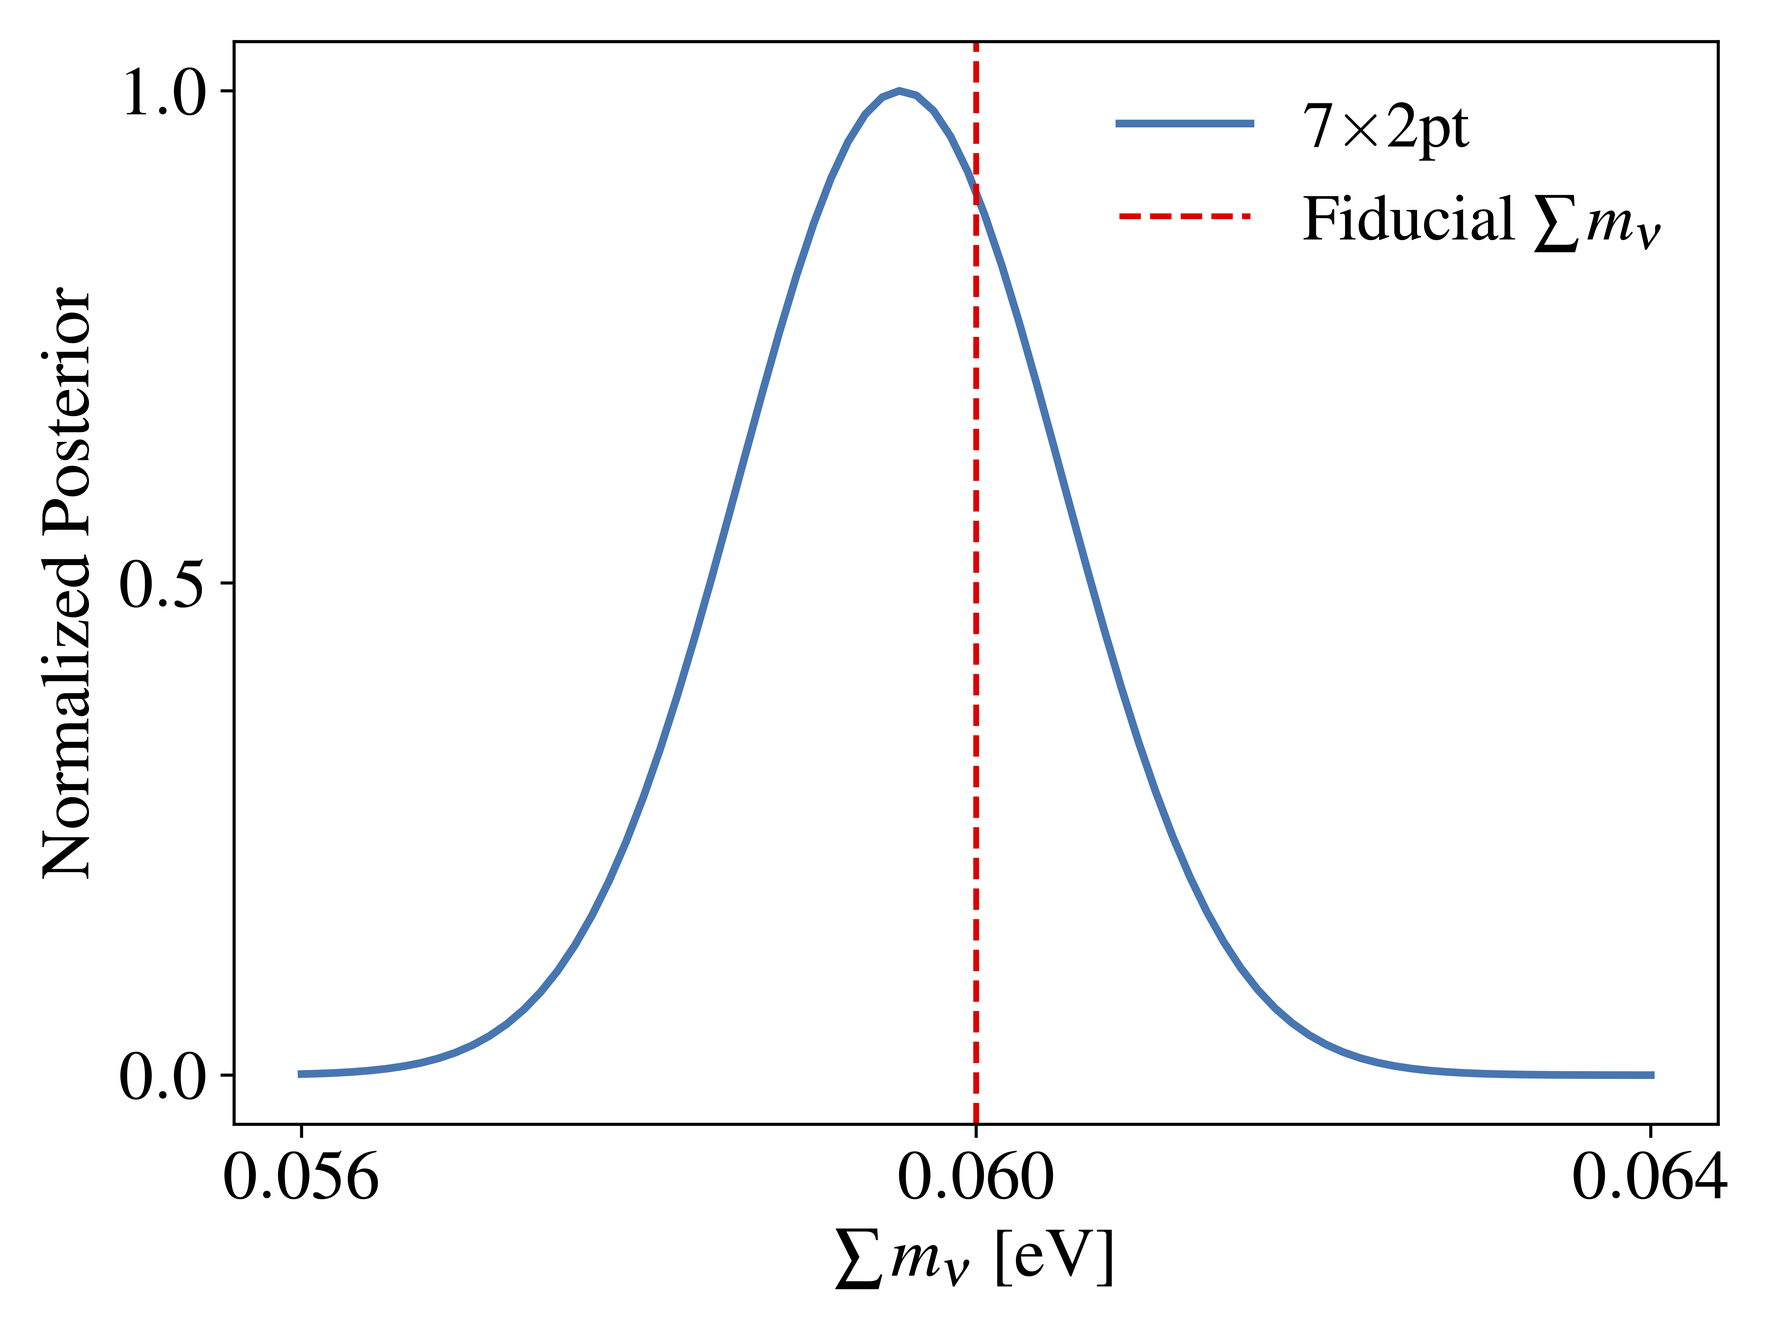
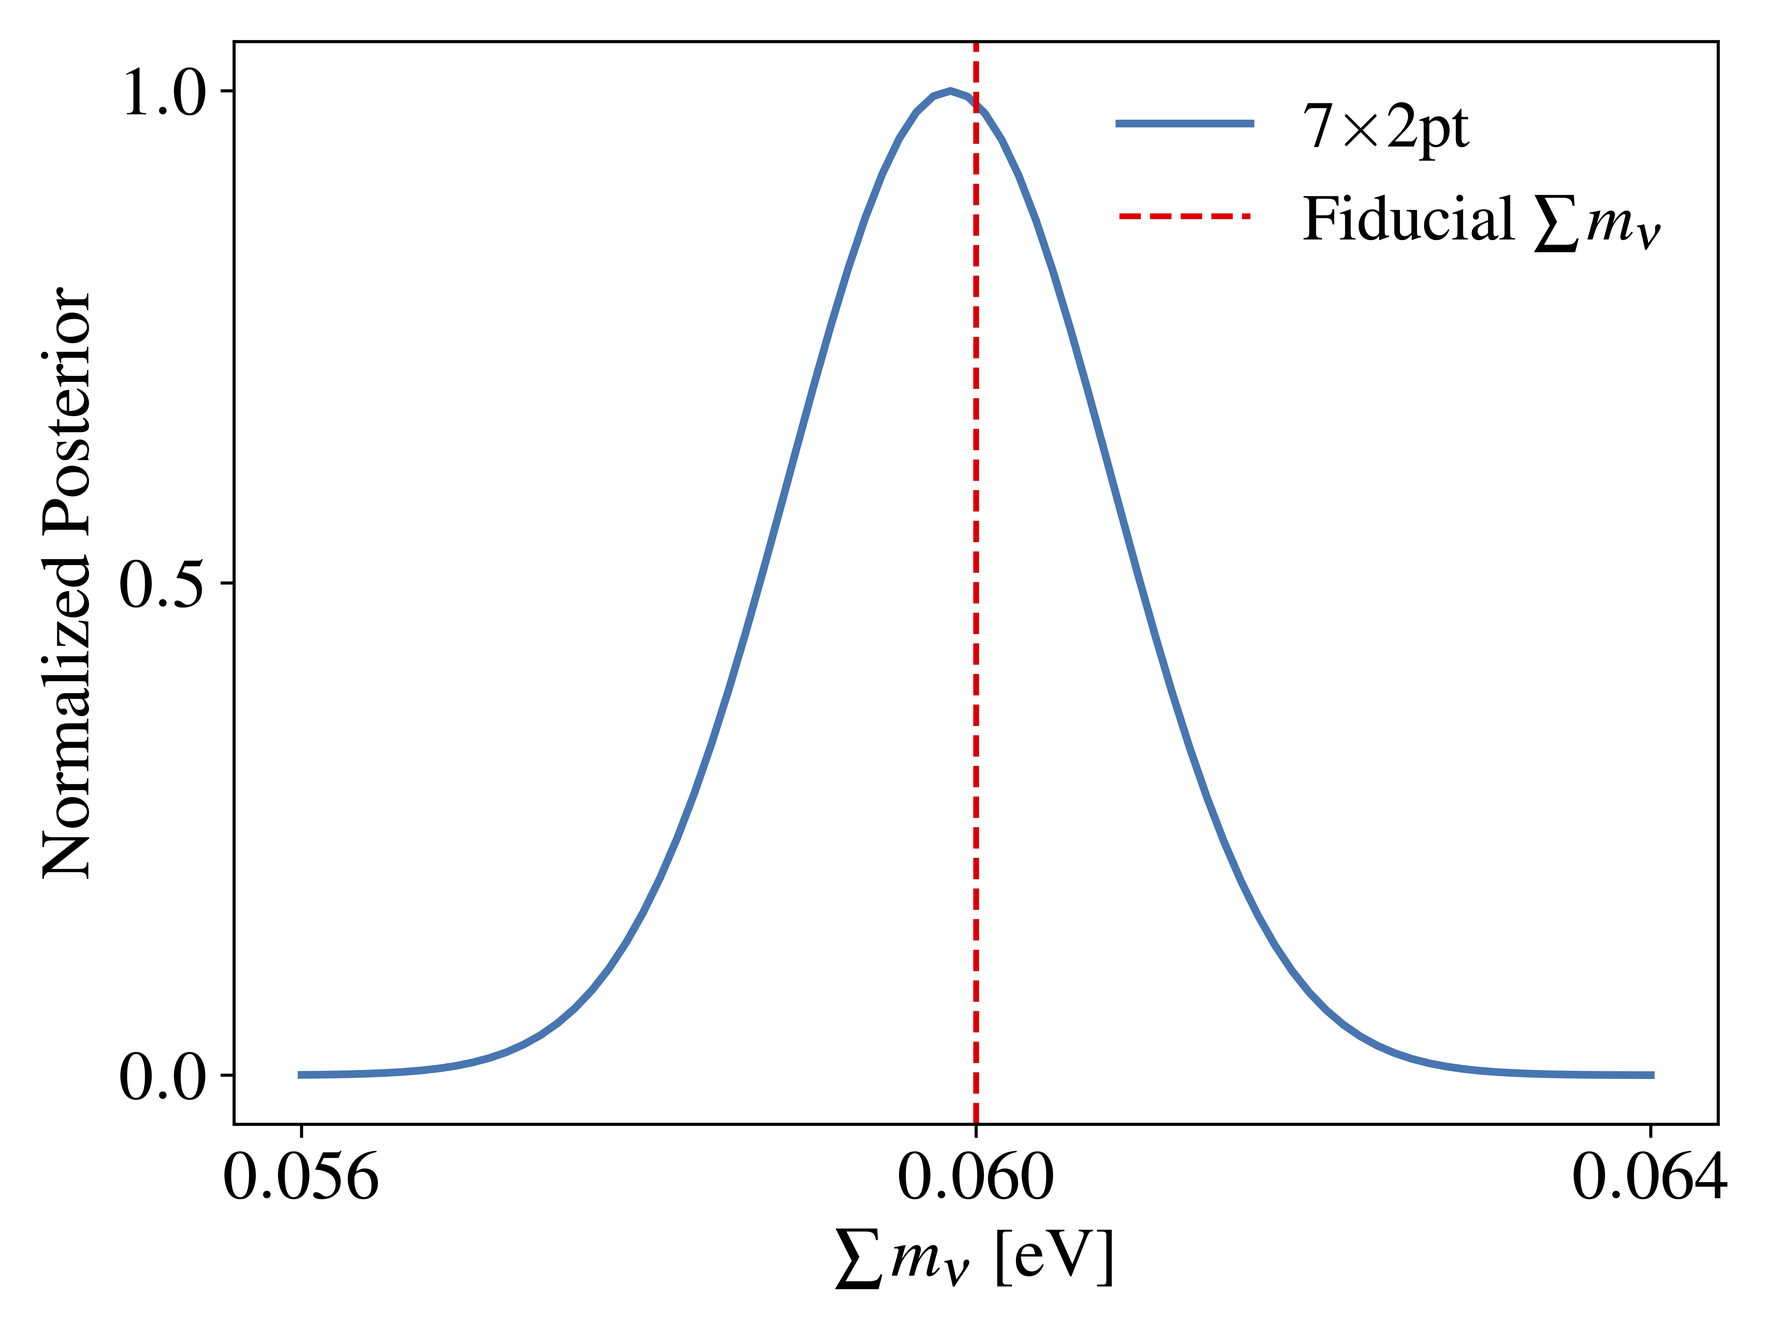
final cleanup

Changed region(s): [[0.1875, 0.0625, 0.8438, 0.8125]]

diff --git a/cloe/cosmo/cosmology.py b/cloe/cosmo/cosmology.py
@@ -1559,8 +1559,8 @@ class Cosmology:
             growth = self.cosmo_dic['D_z_k_func'](redshift, k_scale)
 
         if (isinstance(redshift, (list, np.ndarray)) and
-                isinstance(wavenumber, (list, np.ndarray))):
-            redshift = np.repeat(redshift[:, np.newaxis], len(wavenumber), 1)
+                isinstance(k_scale, (list, np.ndarray))):
+            redshift = np.repeat(redshift[:, np.newaxis], len(k_scale), 1)
 
         c1 = 0.0134
         pivot_redshift = \
@@ -1765,65 +1765,68 @@ class Cosmology:
 
         k_win = self.cosmo_dic['k_win']
         z_win = self.cosmo_dic['z_win']
+        z_win_transpose = z_win.reshape(-1, 1)
 
         spe_bin_edges = np.array([0.90, 1.10, 1.30, 1.50, 1.80])
         z_win_spectro = rb.reduce(z_win, spe_bin_edges[0], spe_bin_edges[-1])
 
         pksrc_phot = self.pk_source_phot
         pksrc_spectro = self.pk_source_spectro
-        pmm_phot = np.array([pksrc_phot.Pmm_phot_def(zz, k_win)
-                             for zz in z_win])
-        pgg_phot = np.array([pksrc_phot.Pgg_phot_def(zz, k_win)
-                             for zz in z_win])
-        pgdelta_phot = np.array([pksrc_phot.Pgdelta_phot_def(zz, k_win)
-                                 for zz in z_win])
-        pii = np.array([pksrc_phot.Pii_def(zz, k_win)
-                        for zz in z_win])
-        pdeltai = np.array([pksrc_phot.Pdeltai_def(zz, k_win)
-                            for zz in z_win])
-        pgi_phot = np.array([pksrc_phot.Pgi_phot_def(zz, k_win)
-                             for zz in z_win])
-        pgi_spectro = np.array([pksrc_phot.Pgi_spectro_def(zz, k_win)
-                                for zz in z_win_spectro])
 
-        self.cosmo_dic['Pgg_spectro'] = pksrc_spectro.Pgg_spectro_def
-        self.cosmo_dic['Pgdelta_spectro'] = pksrc_spectro.Pgdelta_spectro_def
+        if self.cosmo_dic['obs_selection']['GCspectro']['GCspectro']:
+            self.cosmo_dic['Pgg_spectro'] = pksrc_spectro.Pgg_spectro_def
 
-        self.cosmo_dic['Pmm_phot'] = \
-            interpolate.RectBivariateSpline(z_win,
-                                            k_win,
-                                            pmm_phot,
-                                            kx=1, ky=1)
-        self.cosmo_dic['Pgg_phot'] = \
-            interpolate.RectBivariateSpline(z_win,
-                                            k_win,
-                                            pgg_phot,
-                                            kx=1, ky=1)
-        self.cosmo_dic['Pgdelta_phot'] = \
-            interpolate.RectBivariateSpline(z_win,
-                                            k_win,
-                                            pgdelta_phot,
-                                            kx=1, ky=1)
-        self.cosmo_dic['Pii'] = \
-            interpolate.RectBivariateSpline(z_win,
-                                            k_win,
-                                            pii,
-                                            kx=1, ky=1)
-        self.cosmo_dic['Pdeltai'] = \
-            interpolate.RectBivariateSpline(z_win,
-                                            k_win,
-                                            pdeltai,
-                                            kx=1, ky=1)
-        self.cosmo_dic['Pgi_phot'] = \
-            interpolate.RectBivariateSpline(z_win,
-                                            k_win,
-                                            pgi_phot,
-                                            kx=1, ky=1)
-        self.cosmo_dic['Pgi_spectro'] = \
-            interpolate.RectBivariateSpline(z_win_spectro,
-                                            k_win,
-                                            pgi_spectro,
-                                            kx=1, ky=1)
+        if self.cosmo_dic['obs_selection']['WL']['WL']:
+            pmm_phot = pksrc_phot.Pmm_phot_def(z_win_transpose, k_win)
+            pii = pksrc_phot.Pii_def(z_win_transpose, k_win)
+            pdeltai = pksrc_phot.Pdeltai_def(z_win_transpose, k_win)
+            self.cosmo_dic['Pmm_phot'] = \
+                interpolate.RectBivariateSpline(z_win,
+                                                k_win,
+                                                pmm_phot,
+                                                kx=1, ky=1)
+            self.cosmo_dic['Pii'] = \
+                interpolate.RectBivariateSpline(z_win,
+                                                k_win,
+                                                pii,
+                                                kx=1, ky=1)
+            self.cosmo_dic['Pdeltai'] = \
+                interpolate.RectBivariateSpline(z_win,
+                                                k_win,
+                                                pdeltai,
+                                                kx=1, ky=1)
+
+        if self.cosmo_dic['obs_selection']['GCphot']['GCphot']:
+            pgg_phot = pksrc_phot.Pgg_phot_def(z_win_transpose, k_win)
+            self.cosmo_dic['Pgg_phot'] = \
+                interpolate.RectBivariateSpline(z_win,
+                                                k_win,
+                                                pgg_phot,
+                                                kx=1, ky=1)
+
+        if self.cosmo_dic['obs_selection']['WL']['GCphot']:
+            pgdelta_phot = pksrc_phot.Pgdelta_phot_def(z_win_transpose, k_win)
+            pgi_phot = pksrc_phot.Pgi_phot_def(z_win_transpose, k_win)
+            self.cosmo_dic['Pgdelta_phot'] = \
+                interpolate.RectBivariateSpline(z_win,
+                                                k_win,
+                                                pgdelta_phot,
+                                                kx=1, ky=1)
+            self.cosmo_dic['Pgi_phot'] = \
+                interpolate.RectBivariateSpline(z_win,
+                                                k_win,
+                                                pgi_phot,
+                                                kx=1, ky=1)
+
+        if self.cosmo_dic['obs_selection']['WL']['GCspectro']:
+            pgi_spectro = pksrc_phot.Pgi_spectro_def(z_win_transpose_s, k_win)
+            self.cosmo_dic['Pgdelta_spectro'] = \
+                pksrc_spectro.Pgdelta_spectro_def
+            self.cosmo_dic['Pgi_spectro'] = \
+                interpolate.RectBivariateSpline(z_win_spectro,
+                                                k_win,
+                                                pgi_spectro,
+                                                kx=1, ky=1)
         return
 
     def rescaled_linear_power_MG(self, redshift, wavenumber):
@@ -2063,5 +2066,6 @@ class Cosmology:
             self.cosmo_dic['Weyl_matter_ratio'] = \
                 self.Weyl_matter_ratio_def
 
-        self.cosmo_dic['noise_Pgg_spectro'] = \
-            self.pk_source_spectro.noise_Pgg_spectro
+        if self.cosmo_dic['obs_selection']['GCspectro']['GCspectro']:
+            self.cosmo_dic['noise_Pgg_spectro'] = \
+                self.pk_source_spectro.noise_Pgg_spectro

diff --git a/cloe/cobaya_interface.py b/cloe/cobaya_interface.py
@@ -139,7 +139,7 @@ class EuclidLikelihood(Likelihood):
             self.likefinal.data_ins.luminosity_ratio_interpolator
         # Pass the observables selection to the cosmo dictionary
         self.cosmo.cosmo_dic['obs_selection'] = self.observables['selection']
-        self.cosmo.cosmo_dic['observables_specifications'] =\
+        self.cosmo.cosmo_dic['observables_specifications'] = \
             self.observables['specifications']
 
         # Sampling in radius for the sigma(R,z) in Mpc
@@ -158,6 +158,11 @@ class EuclidLikelihood(Likelihood):
         """
         # This will work if CAMB is installed globally
         self.fiducial_cosmology = Cosmology()
+        # Pass the observables selection to the cosmo dictionary
+        self.fiducial_cosmology.cosmo_dic['obs_selection'] = \
+            self.observables['selection']
+        self.fiducial_cosmology.cosmo_dic['observables_specifications'] = \
+            self.observables['specifications']
         # Update fiducial cosmo dic with fiducial info from reader
         self.fiducial_cosmology.cosmo_dic.update(
             self.likefinal.data_spectro_fiducial_cosmo)
@@ -365,11 +370,14 @@ class EuclidLikelihood(Likelihood):
                  "vars_pairs": ([["delta_tot", "delta_tot"],
                                 ["delta_nonu", "delta_nonu"]])}}
         # CAMBdata is used only to retrieve the conformal time
-        # to compute z of CMB, explore if there is a better way.
         if self.solver == 'camb':
             derived = {'omegac': None, 'omnuh2': None, 'omeganu': None,
-                       'nnu': None, 'Cl': {'pp': 4300}, 'CAMBdata': None}
+                       'nnu': None, 'CAMBdata': None}
             requirements = requirements | derived
+            # CMB lensing from CAMB rather than CLOE (not needed)
+            # if self.observables_selection['CMBlens']['CMBlens']:
+            #     derived_cmb = {'Cl': {'pp': 4300}}
+            #     requirements = requirements | derived_cmb
 
         return requirements
 
@@ -444,7 +452,9 @@ class EuclidLikelihood(Likelihood):
                 self.cosmo.cosmo_dic['Omnu'] = \
                     self.provider.get_param('omeganu')
                 self.cosmo.cosmo_dic['nnu'] = self.provider.get_param('nnu')
-                self.cosmo.cosmo_dic['Cl'] = self.provider.get_Cl()
+                # When CMB lensing is from CAMB rather than CLOE (not needed)
+                # if self.observables_selection['CMBlens']['CMBlens']:
+                #     self.cosmo.cosmo_dic['Cl'] = self.provider.get_Cl()
                 self.cosmo.cosmo_dic['CAMBdata'] = self.provider.get_CAMBdata()
                 self.cosmo.cosmo_dic['chistar'] = \
                     self.cosmo.cosmo_dic['CAMBdata'].conformal_time(0) - \
@@ -625,7 +635,6 @@ class EuclidLikelihood(Likelihood):
                                     for your_key in new_keys}
             self.cosmo.cosmo_dic['nuisance_parameters'].update(
                 **only_nuisance_params)
-            self.cosmo.cosmo_dic['Cl'] = model.provider.get_Cl()
             if 'observables_selection' in info['likelihood']['Euclid']:
                 self.observables_selection = \
                     info['likelihood']['Euclid']['observables_selection']
@@ -635,6 +644,9 @@ class EuclidLikelihood(Likelihood):
                     self.observables_selection['matrix_transform_phot']
                 self.cosmo.cosmo_dic['matrix_transform_phot'] = \
                     self.matrix_transform_phot
+                # When CMB lensing is from CAMB rather than CLOE (not needed)
+                # if self.observables_selection['CMBlens']['CMBlens']:
+                #     self.cosmo.cosmo_dic['Cl'] = model.provider.get_Cl()
             if 'observables_specifications' in info['likelihood']['Euclid']:
                 self.observables_specifications = \
                     info['likelihood']['Euclid']['observables_specifications']

diff --git a/cloe/tests/test_cosmo.py b/cloe/tests/test_cosmo.py
@@ -20,6 +20,12 @@ class cosmoinitTestCase(TestCase):
         cls.cosmo = Cosmology()
         cls.cosmo.cosmo_dic = load_test_pickle('cosmo_test_dic.pickle')
         cls.cosmo.cosmo_dic['z_win_max'] = cls.cosmo.cosmo_dic['z_win']
+        sel = cls.cosmo.cosmo_dic.setdefault('obs_selection', {})
+        sel.setdefault('GCspectro', {})['GCspectro'] = True
+        sel.setdefault('GCphot', {})['GCphot'] = True
+        sel.setdefault('WL', {})['GCphot'] = True
+        sel.setdefault('WL', {})['WL'] = True
+        sel.setdefault('WL', {})['GCspectro'] = True
         cls.cosmo.nonlinear.theory['redshift_bins_means_spectro'] = \
             cls.cosmo.cosmo_dic['redshift_bins_means_spectro']
         cls.cosmo.nonlinear.set_Pgg_spectro_model()
@@ -28,21 +34,45 @@ class cosmoinitTestCase(TestCase):
         cls.cosmo_curv_neg.cosmo_dic = (
             load_test_pickle('cosmo_test_curv_neg_dic.pickle')
         )
+        sela = cls.cosmo_curv_neg.cosmo_dic.setdefault('obs_selection', {})
+        sela.setdefault('GCspectro', {})['GCspectro'] = True
+        sela.setdefault('GCphot', {})['GCphot'] = True
+        sela.setdefault('WL', {})['GCphot'] = True
+        sela.setdefault('WL', {})['WL'] = True
+        sela.setdefault('WL', {})['GCspectro'] = True
         # Define test case for positive curvature
         cls.cosmo_curv_pos = Cosmology()
         cls.cosmo_curv_pos.cosmo_dic = (
             load_test_pickle('cosmo_test_curv_pos_dic.pickle')
         )
+        selb = cls.cosmo_curv_pos.cosmo_dic.setdefault('obs_selection', {})
+        selb.setdefault('GCspectro', {})['GCspectro'] = True
+        selb.setdefault('GCphot', {})['GCphot'] = True
+        selb.setdefault('WL', {})['GCphot'] = True
+        selb.setdefault('WL', {})['WL'] = True
+        selb.setdefault('WL', {})['GCspectro'] = True
         # Define test case for gamma parametrization
         cls.cosmo_gamma = Cosmology()
         cls.cosmo_gamma.cosmo_dic = (
             load_test_pickle('cosmo_test_gamma_dic.pickle')
         )
+        selc = cls.cosmo_gamma.cosmo_dic.setdefault('obs_selection', {})
+        selc.setdefault('GCspectro', {})['GCspectro'] = True
+        selc.setdefault('GCphot', {})['GCphot'] = True
+        selc.setdefault('WL', {})['GCphot'] = True
+        selc.setdefault('WL', {})['WL'] = True
+        selc.setdefault('WL', {})['GCspectro'] = True
         # Define test case for nonlinear model
         cls.cosmo_NL = Cosmology()
         cls.cosmo_NL.cosmo_dic = (
             load_test_pickle('cosmo_test_NLphot2_gamma_dic.pickle')
         )
+        seld = cls.cosmo_NL.cosmo_dic.setdefault('obs_selection', {})
+        seld.setdefault('GCspectro', {})['GCspectro'] = True
+        seld.setdefault('GCphot', {})['GCphot'] = True
+        seld.setdefault('WL', {})['GCphot'] = True
+        seld.setdefault('WL', {})['WL'] = True
+        seld.setdefault('WL', {})['GCspectro'] = True
 
     def setUp(self) -> None:
         # Check values

diff --git a/scripts/simulate_data.py b/scripts/simulate_data.py
@@ -111,7 +111,7 @@ info = {
 info['likelihood'] = {'Euclid':
                      {'external': EuclidLikelihood,
                      'observables_selection': {
-                         'WL': {'WL': True, 'GCphot': False, 'GCspectro': False},
+                         'WL': {'WL': True, 'GCphot': True, 'GCspectro': False},
                          'GCphot': {'GCphot': True, 'GCspectro': False},
                          'GCspectro': {'GCspectro': True},
                          'CG': {'CG': False},
@@ -286,14 +286,11 @@ matXC = []
 for bin_i in range(1, nbin + 1):
     for bin_j in range(1, nbin + 1):
         if (bin_j >= bin_i):
-            cl_GC = np.array([photo.Cl_GC_phot(cur_ell, bin_i, bin_j) for
-                              cur_ell in ells])
-            cl_WL = np.array([photo.Cl_WL(cur_ell, bin_i, bin_j) for
-                              cur_ell in ells])
+            cl_GC = photo.Cl_GC_phot(ells, bin_i, bin_j)
+            cl_WL = photo.Cl_WL(ells, bin_i, bin_j)
             matGC.append(cl_GC)
             matWL.append(cl_WL)
-        cl_cross = np.array([photo.Cl_cross(cur_ell, bin_j, bin_i) for
-                             cur_ell in ells])
+        cl_cross = photo.Cl_cross(ells, bin_j, bin_i)
         matXC.append(cl_cross)
 
 matGC = np.array(matGC).T

diff --git a/cloe/photometric_survey/photo.py b/cloe/photometric_survey/photo.py
@@ -50,16 +50,15 @@ class Photo:
         z_wmin3 = 1e-3
         z_wmax = 4.0
         self.z_wsamp = 1000
-        self.z_trapz_sampling = 500
+        # self.z_trapz_sampling = 500
         self.z_winterp = np.logspace(z_wlogmin,
                                      np.log10(z_wmax),
                                      self.z_wsamp)
         self.z_winterp[0] = z_wmin1
         self.z_winterp[1] = z_wmin2
         self.z_winterp[2] = z_wmin3
-        # Number of bins should be generalized, hard-coded for now
 
-        # Cl integral z step (TODO: take from the accuracy module)
+        # Cl integral z step
         int_step = 0.01
         self.z_grid_for_cl = np.arange(self.cl_int_z_min, z_wmax, int_step)
 

diff --git a/cosmosis/cosmosis_interface.py b/cosmosis/cosmosis_interface.py
@@ -174,6 +174,11 @@ def set_fiducial_cosmology(likefinal, info):
     """
     # This will work if CAMB is installed globally
     fid_cosmo = Cosmology()
+    # Pass the observables selection to the cosmo dictionary
+    fid_cosmo.cosmo_dic['obs_selection'] = \
+        info['observables_selection']
+    fid_cosmo.cosmo_dic['observables_specifications'] = \
+        info['observables_specifications']
     fid_cosmo.cosmo_dic['z_win'] = np.linspace(
                                 info['z_min'], info['z_max'], info['z_samp'])
     fid_cosmo.cosmo_dic['z_win_max'] = fid_cosmo.cosmo_dic['z_win']

diff --git a/scripts/make_CMBX_covmat.py b/scripts/make_CMBX_covmat.py
@@ -282,11 +282,12 @@ info['likelihood'] = {'Euclid':
                     }}
 
 model = get_model(info)
-
+model.add_requirements({'Cl': {'pp': 4300}})
 
 # Evaluate the likelihood on the fiducial cosmology
 logposterior = model.logposterior({})
 like = model.likelihood['Euclid']
+like.cosmo.cosmo_dic['Cl'] = model.provider.get_Cl()
 phot_ins = Photo(like.cosmo.cosmo_dic, like.likefinal.data_ins.nz_dict_WL, like.likefinal.data_ins.nz_dict_GC_Phot)
 phot_ins.update(like.cosmo.cosmo_dic)
 

diff --git a/scripts/make_cmbx_data.py b/scripts/make_cmbx_data.py
@@ -201,13 +201,13 @@ info['likelihood'] = {'Euclid':
 
 
 model = get_model(info)
-
+model.add_requirements({'Cl': {'pp': 4300}})
 
 # Evaluate the likelihood on the fiducial cosmology
 logposterior = model.logposterior({})
 
 like = model.likelihood['Euclid']
-
+like.cosmo.cosmo_dic['Cl'] = model.provider.get_Cl()
 
 photo = Photo(like.cosmo.cosmo_dic, like.likefinal.data_ins.nz_dict_WL, like.likefinal.data_ins.nz_dict_GC_Phot)
 photo.update(like.cosmo.cosmo_dic)

diff --git a/cloe/tests/test_CG.py b/cloe/tests/test_CG.py
@@ -34,6 +34,8 @@ info = {
         'omnuh2': None,
         'omegac': None,
         'N_eff': None,
+        'a1_ia': 0,
+        'eta1_ia': -0.41,
     },
     'theory': {'camb':
                {'stop_at_error': True,
@@ -259,6 +261,7 @@ class CGinitTestCase(TestCase):
             self.cg.dVdzdO(0.0),
             self.check_dVdzdO,
             rtol=1.e-3,
+            atol=1e-26,
             err_msg='test_dV_dzdO failed',
         )
 

diff --git a/cloe/cmbx_p/cmbx.py b/cloe/cmbx_p/cmbx.py
@@ -25,7 +25,7 @@ class CMBX:
         """
         self.photo_ins = photo_ins
 
-        # Allows to select the spectra from CAMB directly (faster ?)
+        # Allows to select the spectra from CAMB directly
         self.use_camb_clkcmb = False
 
         self.ells_kCMB = []

diff --git a/docs/source/example.rst b/docs/source/example.rst
@@ -17,6 +17,10 @@ To this end, first import the necessary libraries and modules:
     import numpy as np
     from matplotlib import pyplot as plt
     import copy
+    import os, sys
+    # Add parent of CWD to Python's import path
+    project_root = os.path.realpath(os.path.join(os.getcwd(), '..'))
+    sys.path.insert(0, project_root)
     # Cobaya's model wrapper
     from cobaya.model import get_model
     # Cobaya's run method
@@ -431,6 +435,8 @@ given the cosmology dictionary and set of spectroscopic redshifts:
 
 .. code:: python
 
+    like.cosmo.cosmo_dic['obs_selection']['GCspectro']['GCspectro'] = True
+    like.cosmo.update_cosmo_dic(like.cosmo.cosmo_dic['z_win'], 0.05)
     spectro = Spectro(like.cosmo.cosmo_dic, info['likelihood']['Euclid']['data']['spectro']['redshifts'])
 
 This allows us to use the ``multipole_spectra`` method in ``Spectro`` to  make a plot of the redshift-space 
